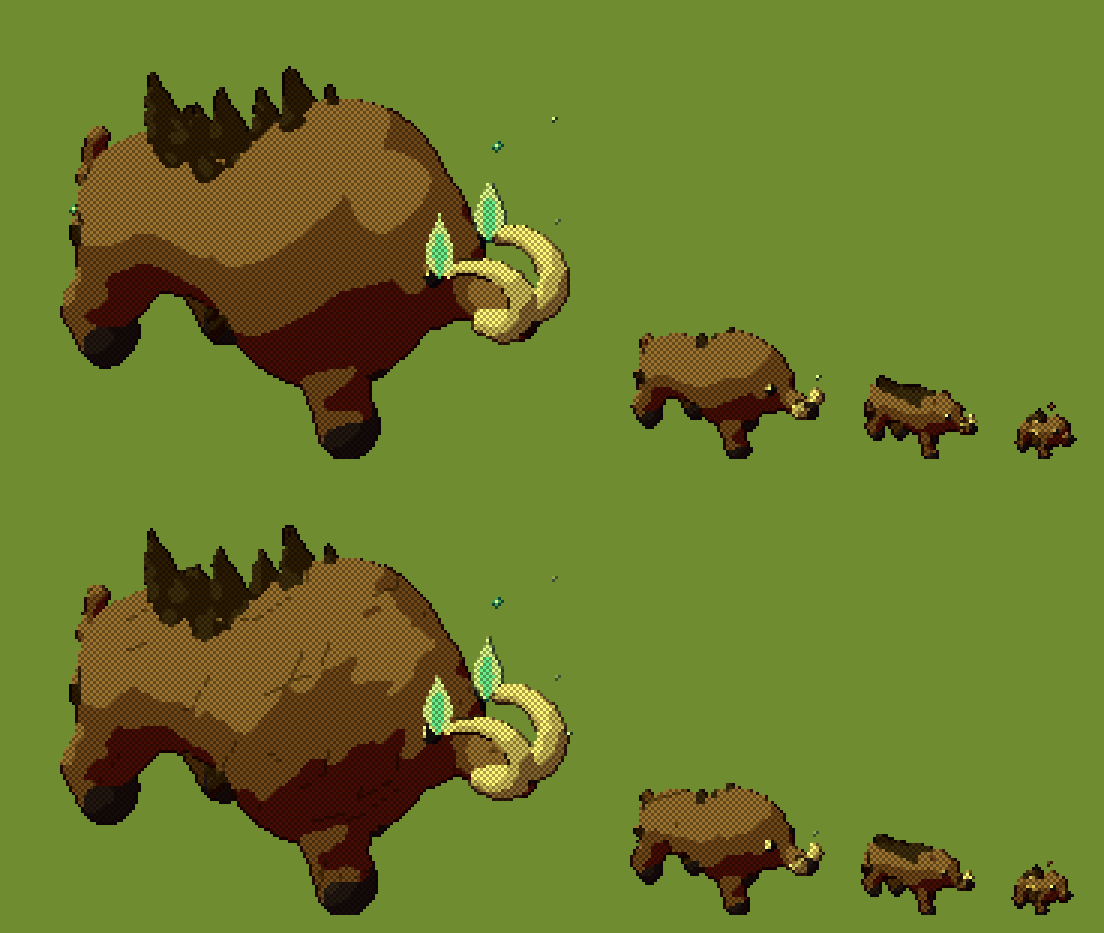
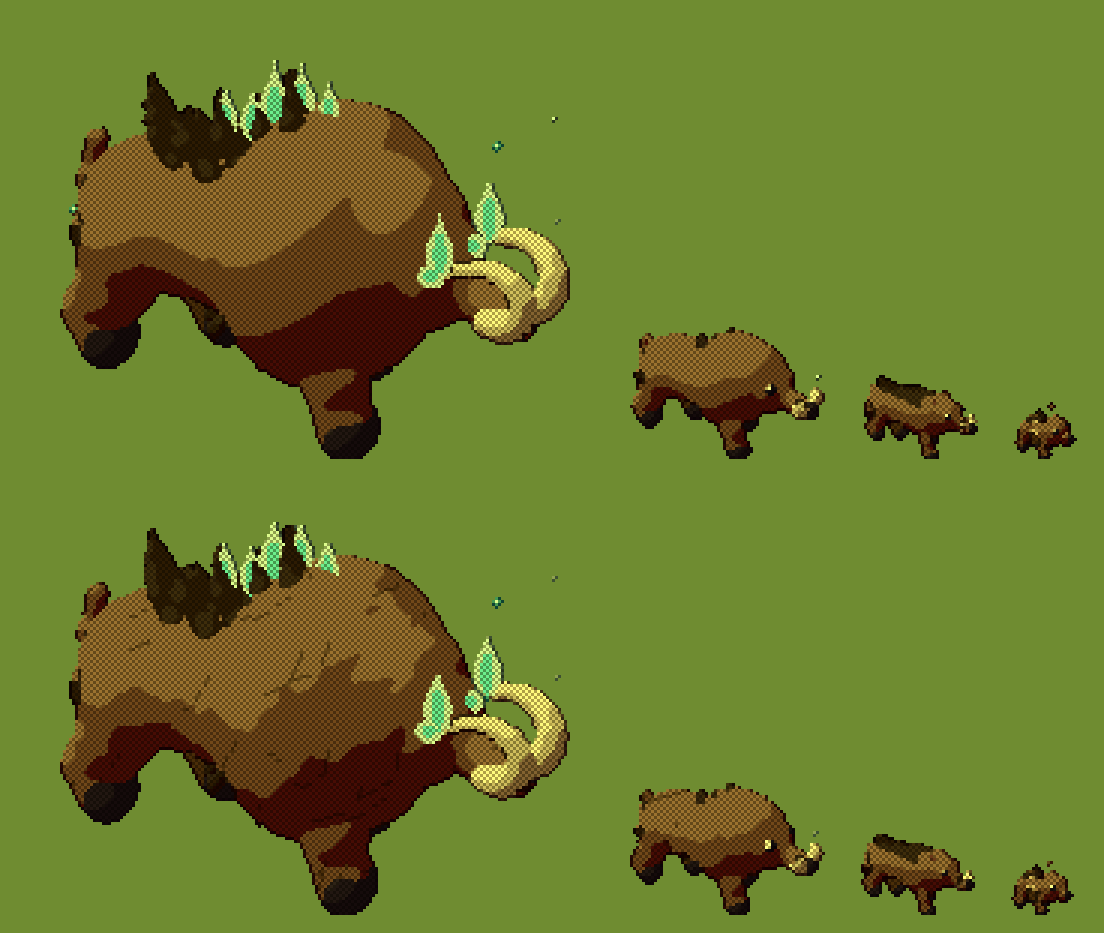
Legend boar: head down to charge, eyes glinting under the hump, flames rising over it
Ed's ruling: the legend keeps its head-down battering-ram pose. Its eyes now glow
and show where they would past the hump (the evolution kit's eyeglint), and
flame wisps rise along its spine (wisps at the mane).

Claude-Session: https://claude.ai/code/session_01CCJ1G3QaUxYK9jSu9176NM

diff --git a/art/creatures3d.js b/art/creatures3d.js
@@ -111,8 +111,9 @@ function gearUp(m) {
 // A level's own features (genome levels[n].features), each from the model's landmarks. Every one's
 // parts are tapered and curved, so a row of them reads as a mane or a crest, never a hand of fingers.
 //   mane: { from, to (along the back, 0 rump to 1 head), height, count, lean, mat, belly (along the underside instead) }
-//   wisps: { at: "tusks", size, mat }: flames off its tusks' tips (glowing).
-export const EVOLVE_KINDS = ["mane", "wisps"];
+//   eyeglint: { size }: its eyes' glint brought out to the surface, where its body hides its face.
+//   wisps: { at: "tusks" | "mane", size, mat, (mane: count, from, to) }: flames off its tusks' tips, or rising along its spine (glowing).
+export const EVOLVE_KINDS = ["mane", "wisps", "eyeglint"];
 function evolve3d(m, feats, c) {
   for (const f of feats) {
     if (f.kind === "mane") {
@@ -126,6 +127,20 @@ function evolve3d(m, feats, c) {
         const z = ((i % 3) - 1) * c.bw * .25, tip = v3.add(b, v3.mul(dir, h)), mid = v3.add(v3.lerp(b, tip, .5), [-h * lean * .25, 0, 0]);
         m.chain([[b[0], b[1], z, h * .2], [mid[0], mid[1], z, h * .11], [tip[0], tip[1], z, h * .02]], mat, { group: 70 + (i % 2), extra: true });
       }
+    }
+    if (f.kind === "eyeglint" && m.anchors.eyes) { // its eyes' glint, pushed out to the surface where the body hides the head (a charging legend's under its hump)
+      m.part = "head";
+      const r = f.size ?? .035, H = m.anchors.head?.c ?? [0, 0, 0];
+      for (const e of m.anchors.eyes.pts) { // out along the camera's line (model3d's view, facing us) past the last surface in the way, so it shows where the eye would
+        const d = v3.norm([.49, .5, .72]); let last = e, inside = true;
+        for (let k = 1; k <= 300; k++) { const q = v3.add(e, v3.mul(d, k * .01)), now = m.field(q) < 0; if (inside && !now) last = q; inside = now; }
+        m.ell(last, [r, r * .8, r], M.MAGIC2, { group: 120, extra: true }); m.ell(v3.add(last, v3.mul(d, r * .6)), [r * .55, r * .45, r * .55], M.MAGIC, { group: 121, extra: true }); } // a bright core in its glowing rim
+    }
+    if (f.kind === "wisps" && f.at === "mane") { // flames rising off the spine, over the hump
+      m.part = "body";
+      const n = f.count ?? 5, s = f.size ?? .22;
+      for (let i = 0; i < n; i++) { const t = (f.from ?? .35) + ((f.to ?? .85) - (f.from ?? .35)) * (i + .5) / n, b = c.backAt(t), up = v3.norm([-.35 - (c.frame ? .1 : 0), 1, 0]), k = s * (.75 + .5 * Math.abs(Math.sin(i * 2.1 + .7)));
+        m.flat(v3.add([b[0], b[1] + s * .4, b[2]], v3.mul(up, k * .55)), [1, 0, 0], up, k * .3, k * .6, masks.flame(M[f.mat || "MAGIC2"], M.MAGIC), { group: 110 + i, extra: true }); }
     }
     if (f.kind === "wisps" && f.at === "tusks") {
       m.part = "head";
@@ -198,7 +213,7 @@ export function quad3d(S, level, frame, st, facing = "towards") {
   const tip = [sn[0] + L * .62 + hr * .1, sn[1] - .02, 0];
   m.ell(tip, [hr * (q.disc ? .1 : .12), hr * (q.disc ? .2 : .12), hr * (q.disc ? .2 : .15)], M.NOSE, { group: 1 });
   // eyes: both show; legends' glow
-  for (const side of [-1, 1]) { const e = Model.surface(H, [hr * 1.05, hr * .92, hr * .88], v3.norm([.75, .32, side * .62])); m.ell(e, [hr * .13, hr * .16, hr * .13].map(v => v * (q.eyeK || 1) * sz("eye")), legend && !q.tusks ? M.MAGIC2 : M.EYE, { group: 1 }); }
+  for (const side of [-1, 1]) { const e = Model.surface(H, [hr * 1.05, hr * .92, hr * .88], v3.norm([.75, .32, side * .62])); m.ell(e, [hr * .13, hr * .16, hr * .13].map(v => v * (q.eyeK || 1) * sz("eye")), (legend && !q.tusks) || q.eyeGlow ? M.MAGIC2 : M.EYE, { group: 1 }); } // (eyeGlow: an evolved level's eye catching the light, the legend boar's under its hump)
   m.anchors.head = { c: H, r: [hr * 1.05, hr * .92, hr * .88], top: [H[0] - hr * .1, H[1] + hr * .82, 0] };
   m.anchors.eyes = { pts: [-1, 1].map(side => Model.surface(H, [hr * 1.05, hr * .92, hr * .88], v3.norm([.75, .32, side * .62]))), size: hr * .16 * (q.eyeK || 1) * sz("eye") };
   m.anchors.neck = { c: v3.lerp(nb, H, sz("neckAnchor")), r: q.neckW * .5 * sz("neckR"), dir: v3.norm(v3.sub(H, nb)), tag: sz("tag") }; // lower on the neck when the head is big

diff --git a/art/genome/species.js b/art/genome/species.js
@@ -24,10 +24,12 @@ export const GENOMES = [
       { body: { len: .6, chest: .3, tuck: .34, back: "arch" }, coat: { ridge: false, bands: { n: 2, mat: "BELLY" } } },
       null,
       { body: { humpK: 2.2, neckAng: -.42, front: 1.18, legW: 1.3 }, head: { tuskSize: 1.15, tuskCurl: .75 }, coat: { ridge: false }, features: [{ kind: "mane", from: .45, to: .98, height: .14, count: 10, lean: .45 }] },
-      { body: { humpK: 2.8, neckAng: -.45, front: 1.36, legW: 1.45, chest: .3 }, head: { tuskSize: 1.7, tuskCurl: 1.25 }, coat: { ridge: false }, features: [
+      { body: { humpK: 2.8, neckAng: -.45, front: 1.36, legW: 1.45, chest: .3 }, head: { tuskSize: 1.7, tuskCurl: 1.25, eyeGlow: true }, coat: { ridge: false }, features: [ // (Ed, 2026-10-05: head down to charge, a battering ram; its eye glints under the hump, flames rise over it)
         { kind: "mane", from: .15, to: 1, height: .3, count: 18, lean: .55 },
         { kind: "mane", belly: true, from: .3, to: .95, height: .16, count: 10, lean: .4 },
         { kind: "wisps", at: "tusks", size: .3 },
+        { kind: "wisps", at: "mane", size: .26, count: 5, from: .4, to: .9 },
+        { kind: "eyeglint", size: .06 },
       ] },
     ] },
   { id: "stag", name: "Stag", template: "quadruped", builder: "quad", palette: { hue: .08, sat: .5, val: .7 }, body: { hgt: 1.3, len: .6, chest: .6, tuck: .7, neck: .55, neckAng: .95, neckW: .32, hr: .2, legW: .75 }, head: { snout: 1.15, snoutD: .6, snoutTaper: .65 }, parts: { ears: { kind: "point", size: 1.1 }, tail: "deer", feet: "hoof", antlers: "branch" }, coat: { belly: true, spots: "young", rump: true }, legend: ["antlersGlow"] },

diff --git a/art/genome/index.js b/art/genome/index.js
@@ -38,7 +38,7 @@ export function speciesOf(g) {
 }
 
 // The evolution kit's features (creatures3d.js evolve3d).
-export const GENOME_FEATURE_KINDS = ["mane", "wisps"];
+export const GENOME_FEATURE_KINDS = ["mane", "wisps", "eyeglint"];
 // A level's overrides, in the builders' bag (as speciesOf makes q).
 function levelQ(l) {
   const q = { ...l.body, ...l.head, ...l.coat }, p = l.parts || {};
